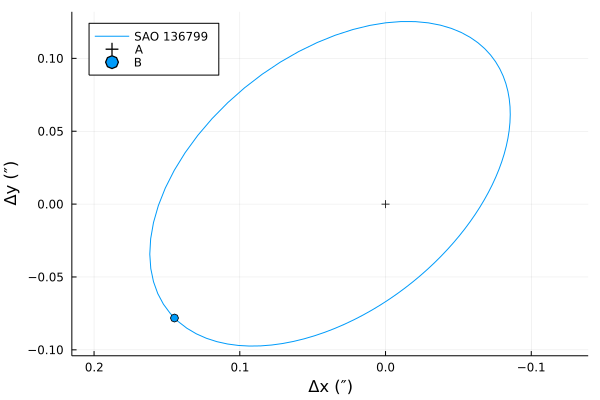
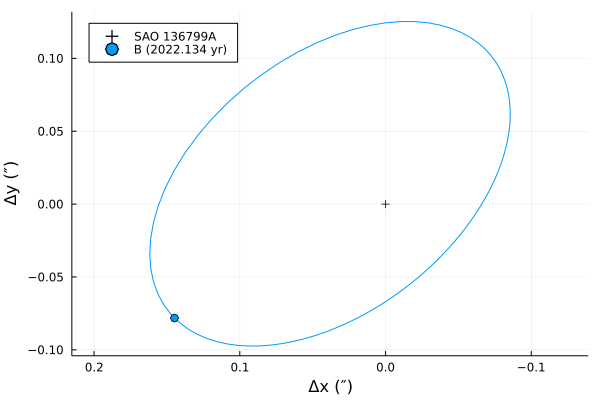
update usage plot

Changed region(s): [[0.15, 0.03, 0.39, 0.21]]

diff --git a/README.md b/README.md
@@ -66,9 +66,9 @@ ra_off, dec_off = @. pos[1:2] / distance |> u"arcsecond"
 ---
 ```julia
 # plot using Unitful recipes
-plot(orbit; distance, label="SAO 136799", leg=:topleft)
+plot(orbit; distance, lab="", leg=:topleft)
 scatter!([0u"arcsecond" ra_off], [0u"arcsecond" dec_off],
-          c=[:black 1], m=[:+ :o], lab=["A" "B"])
+          c=[:black 1], m=[:+ :o], lab=["SAO 136799A" "B ($t)"])
 ```
 
 ![](docs/src/assets/sao136799.png)
